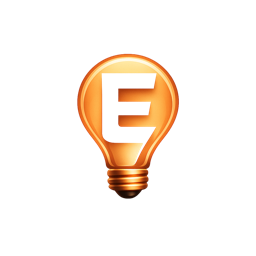
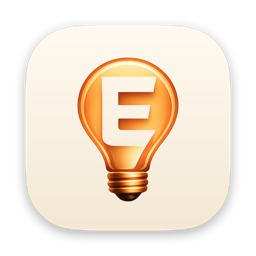
Give the README the family look shared with Boaz, Jimmy and Edison (#36)
Same icon grid and shadow, the same badge and call-to-action rows, a section linking the three apps, and a
matching social preview card in docs/assets/social-preview.png.

diff --git a/README.md b/README.md
@@ -9,15 +9,15 @@
 Edison lives in the menu bar. It keeps everything you copy in a shelf you can search and paste from the keyboard,
 and it captures, annotates and shares screenshots without leaving the flow. Everything stays on your Mac.
 
-[![CI](https://github.com/chenkahana/Edison/actions/workflows/ci.yml/badge.svg?branch=main)](https://github.com/chenkahana/Edison/actions/workflows/ci.yml)
 ![macOS 14+](https://img.shields.io/badge/macOS-14%2B-000000?logo=apple)
 ![Swift 5.10](https://img.shields.io/badge/Swift-5.10-F05138?logo=swift&logoColor=white)
-[![License](https://img.shields.io/badge/license-MPL--2.0-brightgreen)](LICENSE)
-[![PRs welcome](https://img.shields.io/badge/PRs-welcome-F5A623)](CONTRIBUTING.md)
+[![License: MPL-2.0](https://img.shields.io/badge/license-MPL--2.0-blue)](LICENSE)
+[![CI](https://github.com/chenkahana/Edison/actions/workflows/ci.yml/badge.svg?branch=main)](https://github.com/chenkahana/Edison/actions/workflows/ci.yml)
+[![PRs welcome](https://img.shields.io/badge/PRs-welcome-brightgreen)](CONTRIBUTING.md)
 
-[![Download for Mac](https://img.shields.io/badge/Download_for_Mac-Edison.dmg-F5A623?style=for-the-badge&logo=apple)](https://github.com/chenkahana/Edison/releases/latest/download/Edison.dmg)
+[![Download for Mac](https://img.shields.io/badge/Download-Edison.dmg-F5A623?style=for-the-badge&logo=apple&logoColor=white)](https://github.com/chenkahana/Edison/releases/latest/download/Edison.dmg) [![Website](https://img.shields.io/badge/Website-chenkahana.com%2Fedison-111111?style=for-the-badge&logo=safari&logoColor=white)](https://chenkahana.com/edison)
 
-[Website](https://chenkahana.com/edison) · [Install](#install) · [Features](#features) · [Shortcuts](#keyboard-shortcuts) · [Architecture](#architecture) · [Getting started](#getting-started) · [Privacy](#privacy) · [Contributing](#contributing)
+[Install](#install) · [Features](#features) · [Shortcuts](#keyboard-shortcuts) · [Architecture](#architecture) · [Getting started](#getting-started) · [Privacy](#privacy) · [Contributing](#contributing)
 
 <picture>
   <source media="(prefers-color-scheme: dark)" srcset="docs/assets/hub-dark.png">
@@ -208,6 +208,21 @@ Contributions are welcome, from a typo fix to a new annotation tool.
 
 Everyone taking part follows the [Code of Conduct](CODE_OF_CONDUCT.md). Changes are recorded in
 [CHANGELOG.md](CHANGELOG.md).
+
+## The family
+
+Boaz, Jimmy and Edison are made by one independent developer, on the same principles: native Swift and SwiftUI,
+private by design (no accounts, analytics or tracking), and open source under the Mozilla Public License 2.0.
+
+<table>
+  <tr>
+    <td align="center" width="33%"><a href="https://github.com/chenkahana/Boaz"><img src="https://raw.githubusercontent.com/chenkahana/Boaz/master/docs/assets/icon.png" width="88" alt="Boaz app icon"></a><br><b><a href="https://github.com/chenkahana/Boaz">Boaz</a></b><br><sub>A calm web browser for iPhone and Mac</sub></td>
+    <td align="center" width="33%"><a href="https://github.com/chenkahana/Jimmy"><img src="https://raw.githubusercontent.com/chenkahana/Jimmy/main/docs/assets/icon.png" width="88" alt="Jimmy app icon"></a><br><b><a href="https://github.com/chenkahana/Jimmy">Jimmy</a></b><br><sub>A queue-centric podcast player for iPhone</sub></td>
+    <td align="center" width="33%"><a href="https://github.com/chenkahana/Edison"><img src="https://raw.githubusercontent.com/chenkahana/Edison/main/docs/assets/icon.png" width="88" alt="Edison app icon"></a><br><b><a href="https://github.com/chenkahana/Edison">Edison</a></b><br><sub>Clipboard history and screenshots for Mac</sub></td>
+  </tr>
+</table>
+
+<p align="center"><sub>More at <a href="https://chenkahana.com">chenkahana.com</a></sub></p>
 
 ## License
 
